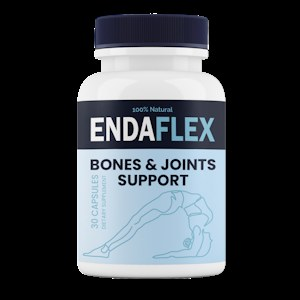
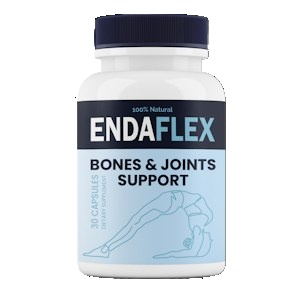
Фото: белый фон вместо чёрного — 763 кадра заливкой, 223 перерисовкой с автопроверкой текста

diff --git a/index.html b/index.html
@@ -52,7 +52,7 @@
 <div class="wrap">
   <header><img src="favicon.png" alt=""><h1>Boutique du fabricant</h1></header>
   <div class="intro"><p>Vente directe de produits de bien-être pour tous les jours.</p></div>
-  <div class="grid"><a class="card" href="/lb/artro-flex-active/"><div class="ph"><img src="img/lbhd-18970.jpeg" alt="ARTRO FLEX ACTIVE" loading="lazy"></div><div class="name">ARTRO FLEX ACTIVE</div><div class="price">27900 FCFA</div><div class="btn">COMMANDER L’ORIGINAL</div></a><a class="card" href="/mc/artroflex/"><div class="ph"><img src="img/mchd-5609.png" alt="Artroflex" loading="lazy"></div><div class="name">Artroflex</div><div class="price">24900 FCFA</div><div class="btn">COMMANDER L’ORIGINAL</div></a><a class="card" href="/cp/cardioflow/"><div class="ph"><img src="img/trafficlight-cardioflow.webp" alt="CardioFlow" loading="lazy"></div><div class="name">CardioFlow</div><div class="price">24900 FCFA</div><div class="btn">COMMANDER L’ORIGINAL</div></a><a class="card" href="/cp/cardiwell/"><div class="ph"><img src="img/drcash-cardiwell.webp" alt="CardiWell" loading="lazy"></div><div class="name">CardiWell</div><div class="price">24900 FCFA</div><div class="btn">COMMANDER L’ORIGINAL</div></a><a class="card" href="/cp/endaflex/"><div class="ph"><img src="img/cp-12733.jpg" alt="EndaFlex" loading="lazy"></div><div class="name">EndaFlex</div><div class="price">24900 FCFA</div><div class="btn">COMMANDER L’ORIGINAL</div></a><a class="card" href="/mc/eroxel/"><div class="ph"><img src="img/mchd-5574.png" alt="Eroxel" loading="lazy"></div><div class="name">Eroxel</div><div class="price">24900 FCFA</div><div class="btn">COMMANDER L’ORIGINAL</div></a><a class="card" href="/cp/forcepro/"><div class="ph"><img src="img/cp-12735.jpg" alt="ForcePro" loading="lazy"></div><div class="name">ForcePro</div><div class="price">24900 FCFA</div><div class="btn">COMMANDER L’ORIGINAL</div></a><a class="card" href="/tl/keto-slim/"><div class="ph"><img src="img/lbhd-11341.png" alt="Keto Slim" loading="lazy"></div><div class="name">Keto Slim</div><div class="price">24900 FCFA</div><div class="btn">COMMANDER L’ORIGINAL</div></a><a class="card" href="/ac/keto-x/"><div class="ph"><img src="img/achd-38218.jpg" alt="Keto X" loading="lazy"></div><div class="name">Keto X</div><div class="price">24900 FCFA</div><div class="btn">COMMANDER L’ORIGINAL</div></a><a class="card" href="/cp/ketoslim/"><div class="ph"><img src="img/lbhd-11341.png" alt="KetoSlim" loading="lazy"></div><div class="name">KetoSlim</div><div class="price">24900 FCFA</div><div class="btn">COMMANDER L’ORIGINAL</div></a><a class="card" href="/dc/movemagic/"><div class="ph"><img src="img/dccard-27375.png" alt="MoveMagic" loading="lazy"></div><div class="name">MoveMagic</div><div class="price">24900 FCFA</div><div class="btn">COMMANDER L’ORIGINAL</div></a><a class="card" href="/tl/novo-tenol/"><div class="ph"><img src="img/tlhd-19998.jpg" alt="Novo Tenol" loading="lazy"></div><div class="name">Novo Tenol</div><div class="price">24900 FCFA</div><div class="btn">COMMANDER L’ORIGINAL</div></a><a class="card" href="/cp/optiluxe/"><div class="ph"><img src="img/cat-cpa-11781.jpg" alt="OptiLuxe" loading="lazy"></div><div class="name">OptiLuxe</div><div class="price">24900 FCFA</div><div class="btn">COMMANDER L’ORIGINAL</div></a><a class="card" href="/tl/orthevia/"><div class="ph"><img src="img/tlhd-23470.png" alt="Orthevia" loading="lazy"></div><div class="name">Orthevia</div><div class="price">24900 FCFA</div><div class="btn">COMMANDER L’ORIGINAL</div></a><a class="card" href="/tl/oshunlove-gel-set/"><div class="ph"><img src="img/tlhd-23592.png" alt="Oshunlove Gel Set" loading="lazy"></div><div class="name">Oshunlove Gel Set</div><div class="price">35000 FCFA</div><div class="btn">COMMANDER L’ORIGINAL</div></a><a class="card" href="/cp/osteoflex/"><div class="ph"><img src="img/cp-11069.jpg" alt="OsteoFlex" loading="lazy"></div><div class="name">OsteoFlex</div><div class="price">24900 FCFA</div><div class="btn">COMMANDER L’ORIGINAL</div></a><a class="card" href="/kma/osteoflex-ii/"><div class="ph"><img src="img/kmahd-11872.png" alt="Osteoflex II" loading="lazy"></div><div class="name">Osteoflex II</div><div class="price">24900 FCFA</div><div class="btn">COMMANDER L’ORIGINAL</div></a><a class="card" href="/tl/prostacare/"><div class="ph"><img src="img/tlhd-23300.png" alt="ProstaCare" loading="lazy"></div><div class="name">ProstaCare</div><div class="price">24900 FCFA</div><div class="btn">COMMANDER L’ORIGINAL</div></a><a class="card" href="/cp/prostovit-plus/"><div class="ph"><img src="img/trafficlight-prostovit-plus.webp" alt="ProstoVit Plus" loading="lazy"></div><div class="name">ProstoVit Plus</div><div class="price">24900 FCFA</div><div class="btn">COMMANDER L’ORIGINAL</div></a><a class="card" href="/dc/redufit/"><div class="ph"><img src="img/dccard-27374.png" alt="Redufit" loading="lazy"></div><div class="name">Redufit</div><div class="price">24900 FCFA</div><div class="btn">COMMANDER L’ORIGINAL</div></a><a class="card" href="/cp/repelguard/"><div class="ph"><img src="img/cp-11779.jpg" alt="Repelguard" loading="lazy"></div><div class="name">Repelguard</div><div class="price">24900 FCFA</div><div class="btn">COMMANDER L’ORIGINAL</div></a><a class="card" href="/cp/silkbloom/"><div class="ph"><img src="img/trafficlight-silkbloom.webp" alt="SilkBloom" loading="lazy"></div><div class="name">SilkBloom</div><div class="price">24900 FCFA</div><div class="btn">COMMANDER L’ORIGINAL</div></a><a class="card" href="/cp/sonicclear/"><div class="ph"><img src="img/cp-12729.jpg" alt="SonicClear" loading="lazy"></div><div class="name">SonicClear</div><div class="price">24900 FCFA</div><div class="btn">COMMANDER L’ORIGINAL</div></a><a class="card" href="/cp/testoxed/"><div class="ph"><img src="img/m1-testoxed.webp" alt="Testoxed" loading="lazy"></div><div class="name">Testoxed</div><div class="price">24900 FCFA</div><div class="btn">COMMANDER L’ORIGINAL</div></a><a class="card" href="/cp/vitasweet/"><div class="ph"><img src="img/cat-kma-8469.jpg" alt="Vitasweet" loading="lazy"></div><div class="name">Vitasweet</div><div class="price">24900 FCFA</div><div class="btn">COMMANDER L’ORIGINAL</div></a><a class="card" href="/m1/joint-health/"><div class="ph"></div><div class="name">Joint Health</div><div class="price">24900 FCFA</div><div class="btn">COMMANDER L’ORIGINAL</div></a><a class="card" href="/dc/optilux/"><div class="ph"></div><div class="name">OptiLux</div><div class="price">24900 FCFA</div><div class="btn">COMMANDER L’ORIGINAL</div></a><a class="card" href="/dc/parasities/"><div class="ph"></div><div class="name">Parasities</div><div class="price">24900 FCFA</div><div class="btn">COMMANDER L’ORIGINAL</div></a><a class="card" href="/dc/prostavit-plus/"><div class="ph"></div><div class="name">Prostavit Plus</div><div class="price">24900 FCFA</div><div class="btn">COMMANDER L’ORIGINAL</div></a></div>
+  <div class="grid"><a class="card" href="/lb/artro-flex-active/"><div class="ph"><img src="img/lbhd-18970.jpeg" alt="ARTRO FLEX ACTIVE" loading="lazy"></div><div class="name">ARTRO FLEX ACTIVE</div><div class="price">27900 FCFA</div><div class="btn">COMMANDER L’ORIGINAL</div></a><a class="card" href="/mc/artroflex/"><div class="ph"><img src="img/mchd-5609.png" alt="Artroflex" loading="lazy"></div><div class="name">Artroflex</div><div class="price">24900 FCFA</div><div class="btn">COMMANDER L’ORIGINAL</div></a><a class="card" href="/cp/cardioflow/"><div class="ph"><img src="img/trafficlight-cardioflow.webp" alt="CardioFlow" loading="lazy"></div><div class="name">CardioFlow</div><div class="price">24900 FCFA</div><div class="btn">COMMANDER L’ORIGINAL</div></a><a class="card" href="/cp/cardiwell/"><div class="ph"><img src="img/redraw-drcash-cardiwell.png" alt="CardiWell" loading="lazy"></div><div class="name">CardiWell</div><div class="price">24900 FCFA</div><div class="btn">COMMANDER L’ORIGINAL</div></a><a class="card" href="/cp/endaflex/"><div class="ph"><img src="img/cp-12733.jpg" alt="EndaFlex" loading="lazy"></div><div class="name">EndaFlex</div><div class="price">24900 FCFA</div><div class="btn">COMMANDER L’ORIGINAL</div></a><a class="card" href="/mc/eroxel/"><div class="ph"><img src="img/mchd-5574.png" alt="Eroxel" loading="lazy"></div><div class="name">Eroxel</div><div class="price">24900 FCFA</div><div class="btn">COMMANDER L’ORIGINAL</div></a><a class="card" href="/cp/forcepro/"><div class="ph"><img src="img/cp-12735.jpg" alt="ForcePro" loading="lazy"></div><div class="name">ForcePro</div><div class="price">24900 FCFA</div><div class="btn">COMMANDER L’ORIGINAL</div></a><a class="card" href="/tl/keto-slim/"><div class="ph"><img src="img/lbhd-11341.png" alt="Keto Slim" loading="lazy"></div><div class="name">Keto Slim</div><div class="price">24900 FCFA</div><div class="btn">COMMANDER L’ORIGINAL</div></a><a class="card" href="/ac/keto-x/"><div class="ph"><img src="img/achd-38218.jpg" alt="Keto X" loading="lazy"></div><div class="name">Keto X</div><div class="price">24900 FCFA</div><div class="btn">COMMANDER L’ORIGINAL</div></a><a class="card" href="/cp/ketoslim/"><div class="ph"><img src="img/lbhd-11341.png" alt="KetoSlim" loading="lazy"></div><div class="name">KetoSlim</div><div class="price">24900 FCFA</div><div class="btn">COMMANDER L’ORIGINAL</div></a><a class="card" href="/dc/movemagic/"><div class="ph"><img src="img/dccard-27375.png" alt="MoveMagic" loading="lazy"></div><div class="name">MoveMagic</div><div class="price">24900 FCFA</div><div class="btn">COMMANDER L’ORIGINAL</div></a><a class="card" href="/tl/novo-tenol/"><div class="ph"><img src="img/tlhd-19998.jpg" alt="Novo Tenol" loading="lazy"></div><div class="name">Novo Tenol</div><div class="price">24900 FCFA</div><div class="btn">COMMANDER L’ORIGINAL</div></a><a class="card" href="/cp/optiluxe/"><div class="ph"><img src="img/cat-cpa-11781.jpg" alt="OptiLuxe" loading="lazy"></div><div class="name">OptiLuxe</div><div class="price">24900 FCFA</div><div class="btn">COMMANDER L’ORIGINAL</div></a><a class="card" href="/tl/orthevia/"><div class="ph"><img src="img/tlhd-23470.png" alt="Orthevia" loading="lazy"></div><div class="name">Orthevia</div><div class="price">24900 FCFA</div><div class="btn">COMMANDER L’ORIGINAL</div></a><a class="card" href="/tl/oshunlove-gel-set/"><div class="ph"><img src="img/tlhd-23592.png" alt="Oshunlove Gel Set" loading="lazy"></div><div class="name">Oshunlove Gel Set</div><div class="price">35000 FCFA</div><div class="btn">COMMANDER L’ORIGINAL</div></a><a class="card" href="/cp/osteoflex/"><div class="ph"><img src="img/cp-11069.jpg" alt="OsteoFlex" loading="lazy"></div><div class="name">OsteoFlex</div><div class="price">24900 FCFA</div><div class="btn">COMMANDER L’ORIGINAL</div></a><a class="card" href="/kma/osteoflex-ii/"><div class="ph"><img src="img/kmahd-11872.png" alt="Osteoflex II" loading="lazy"></div><div class="name">Osteoflex II</div><div class="price">24900 FCFA</div><div class="btn">COMMANDER L’ORIGINAL</div></a><a class="card" href="/tl/prostacare/"><div class="ph"><img src="img/tlhd-23300.png" alt="ProstaCare" loading="lazy"></div><div class="name">ProstaCare</div><div class="price">24900 FCFA</div><div class="btn">COMMANDER L’ORIGINAL</div></a><a class="card" href="/cp/prostovit-plus/"><div class="ph"><img src="img/redraw-trafficlight-prostovit-plus.png" alt="ProstoVit Plus" loading="lazy"></div><div class="name">ProstoVit Plus</div><div class="price">24900 FCFA</div><div class="btn">COMMANDER L’ORIGINAL</div></a><a class="card" href="/dc/redufit/"><div class="ph"><img src="img/dccard-27374.png" alt="Redufit" loading="lazy"></div><div class="name">Redufit</div><div class="price">24900 FCFA</div><div class="btn">COMMANDER L’ORIGINAL</div></a><a class="card" href="/cp/repelguard/"><div class="ph"><img src="img/cp-11779.jpg" alt="Repelguard" loading="lazy"></div><div class="name">Repelguard</div><div class="price">24900 FCFA</div><div class="btn">COMMANDER L’ORIGINAL</div></a><a class="card" href="/cp/silkbloom/"><div class="ph"><img src="img/trafficlight-silkbloom.webp" alt="SilkBloom" loading="lazy"></div><div class="name">SilkBloom</div><div class="price">24900 FCFA</div><div class="btn">COMMANDER L’ORIGINAL</div></a><a class="card" href="/cp/sonicclear/"><div class="ph"><img src="img/cp-12729.jpg" alt="SonicClear" loading="lazy"></div><div class="name">SonicClear</div><div class="price">24900 FCFA</div><div class="btn">COMMANDER L’ORIGINAL</div></a><a class="card" href="/cp/testoxed/"><div class="ph"><img src="img/m1-testoxed.webp" alt="Testoxed" loading="lazy"></div><div class="name">Testoxed</div><div class="price">24900 FCFA</div><div class="btn">COMMANDER L’ORIGINAL</div></a><a class="card" href="/cp/vitasweet/"><div class="ph"><img src="img/cat-kma-8469.jpg" alt="Vitasweet" loading="lazy"></div><div class="name">Vitasweet</div><div class="price">24900 FCFA</div><div class="btn">COMMANDER L’ORIGINAL</div></a><a class="card" href="/m1/joint-health/"><div class="ph"></div><div class="name">Joint Health</div><div class="price">24900 FCFA</div><div class="btn">COMMANDER L’ORIGINAL</div></a><a class="card" href="/dc/optilux/"><div class="ph"></div><div class="name">OptiLux</div><div class="price">24900 FCFA</div><div class="btn">COMMANDER L’ORIGINAL</div></a><a class="card" href="/dc/parasities/"><div class="ph"></div><div class="name">Parasities</div><div class="price">24900 FCFA</div><div class="btn">COMMANDER L’ORIGINAL</div></a><a class="card" href="/dc/prostavit-plus/"><div class="ph"></div><div class="name">Prostavit Plus</div><div class="price">24900 FCFA</div><div class="btn">COMMANDER L’ORIGINAL</div></a></div>
   <footer><a href="privacy.html">Politique de confidentialité</a><a href="terms.html">Conditions générales</a><a href="kontakt.html">Contact</a><a href="about.html">À propos</a><span>fazalstrk@gmail.com</span><span>© 2026</span></footer>
 </div>
 </body>

diff --git a/cp/prostovit-plus/index.html b/cp/prostovit-plus/index.html
@@ -260,7 +260,7 @@ body.free .disc,body:not(.free) .nodisc{display:none}
       <div>
         <div class="product-card">
           <span class="disc-ribbon disc">-50%</span>
-          <img src="../../img/trafficlight-prostovit-plus.webp" alt="ProstoVit Plus">
+          <img src="../../img/redraw-trafficlight-prostovit-plus.png" alt="ProstoVit Plus">
           <div><span class="ribbon">Original</span><div class="shotcap">Boîte d’origine avec scellé et numéro de lot</div></div>
         </div>
       </div>

diff --git a/m1/prostovit-plus/index.html b/m1/prostovit-plus/index.html
@@ -260,7 +260,7 @@ body.free .disc,body:not(.free) .nodisc{display:none}
       <div>
         <div class="product-card">
           <span class="disc-ribbon disc">-50%</span>
-          <img src="../../img/trafficlight-prostovit-plus.webp" alt="Prostovit Plus">
+          <img src="../../img/redraw-trafficlight-prostovit-plus.png" alt="Prostovit Plus">
           <div><span class="ribbon">Original</span><div class="shotcap">Boîte d’origine avec scellé et numéro de lot</div></div>
         </div>
       </div>

diff --git a/cp/cardiwell/index.html b/cp/cardiwell/index.html
@@ -260,7 +260,7 @@ body.free .disc,body:not(.free) .nodisc{display:none}
       <div>
         <div class="product-card">
           <span class="disc-ribbon disc">-50%</span>
-          <img src="../../img/drcash-cardiwell.webp" alt="CardiWell">
+          <img src="../../img/redraw-drcash-cardiwell.png" alt="CardiWell">
           <div><span class="ribbon">Original</span><div class="shotcap">Boîte d’origine avec scellé et numéro de lot</div></div>
         </div>
       </div>
